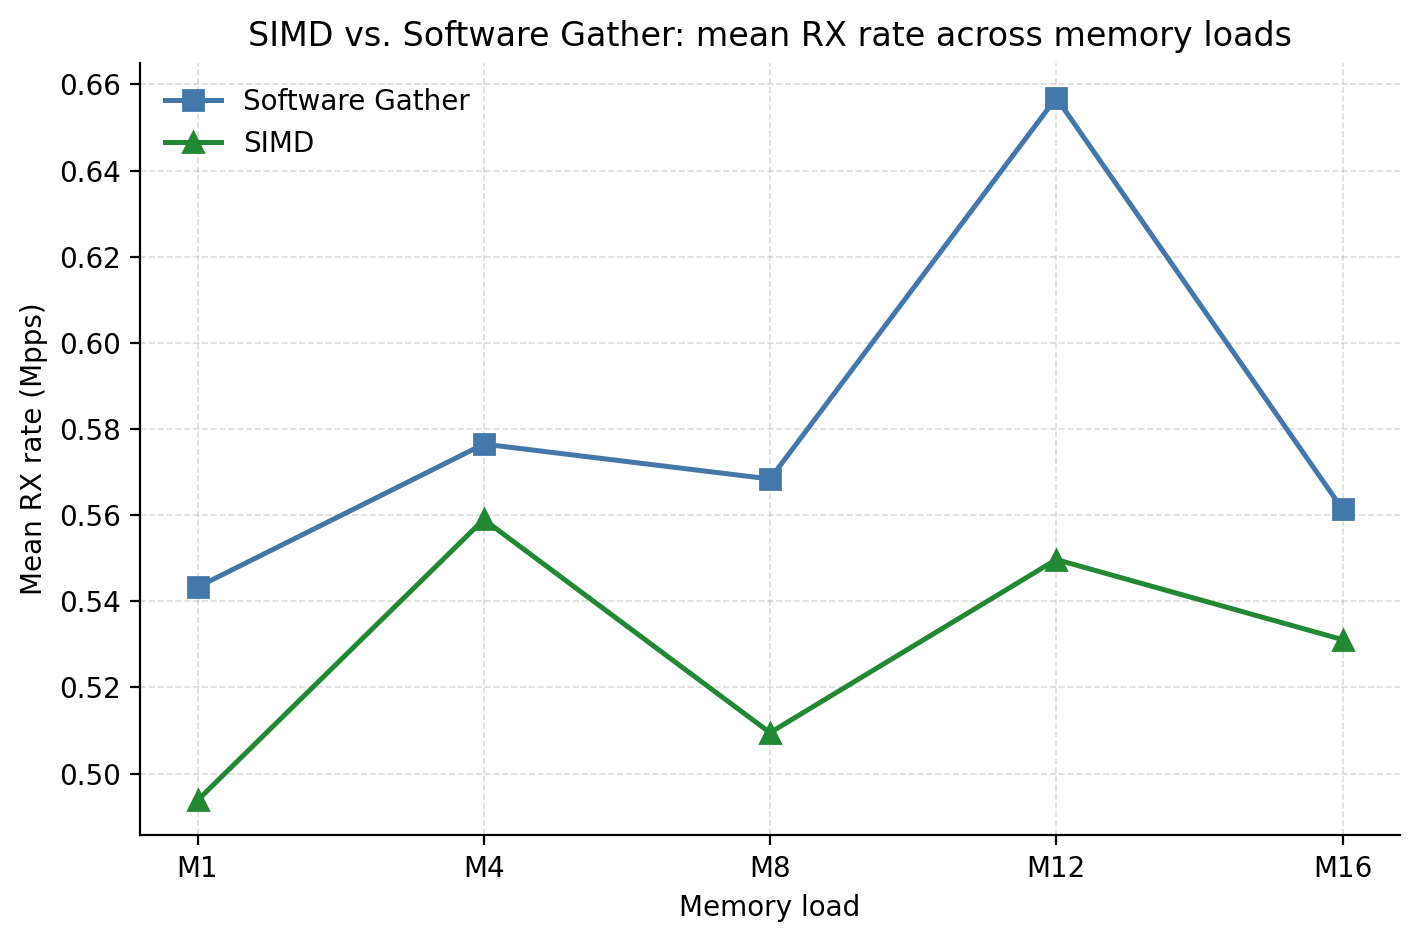
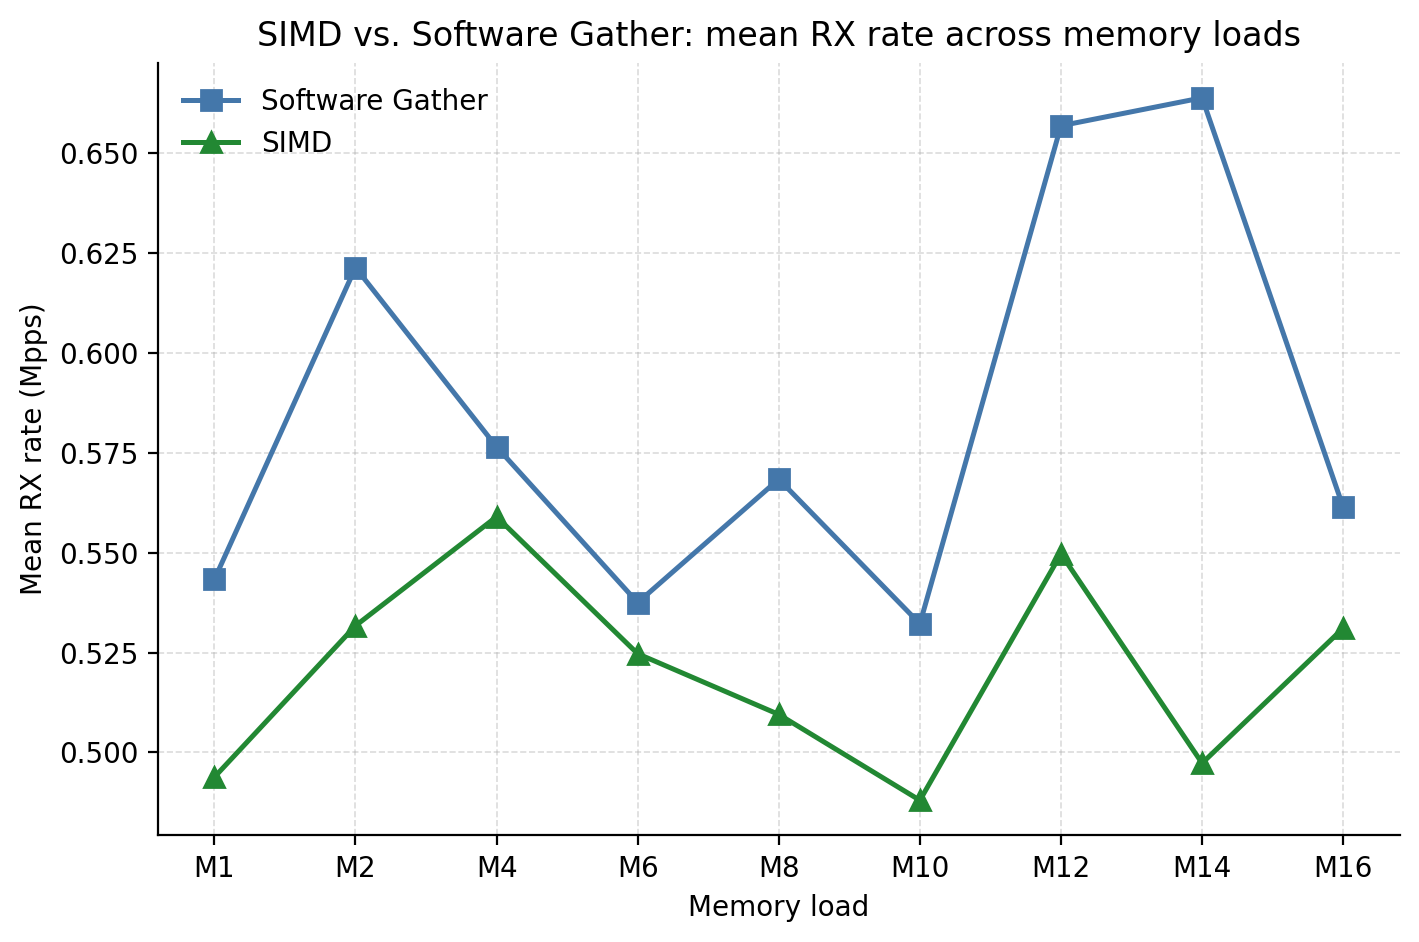
data for additional memory loads

diff --git a/logs/build_rx_comparison.py b/logs/build_rx_comparison.py
@@ -10,7 +10,7 @@ from pathlib import Path
 import matplotlib.pyplot as plt
 
 HERE = Path(__file__).parent
-SIZES = ("M1", "M4", "M8", "M12", "M16")
+SIZES = ("M1", "M2", "M4", "M6", "M8", "M10", "M12", "M14", "M16")
 COLORS = {"gather": "#4477AA", "simd": "#228833"}
 MARKERS = {"gather": "s", "simd": "^"}
 LABELS = {"gather": "Software Gather", "simd": "SIMD"}
